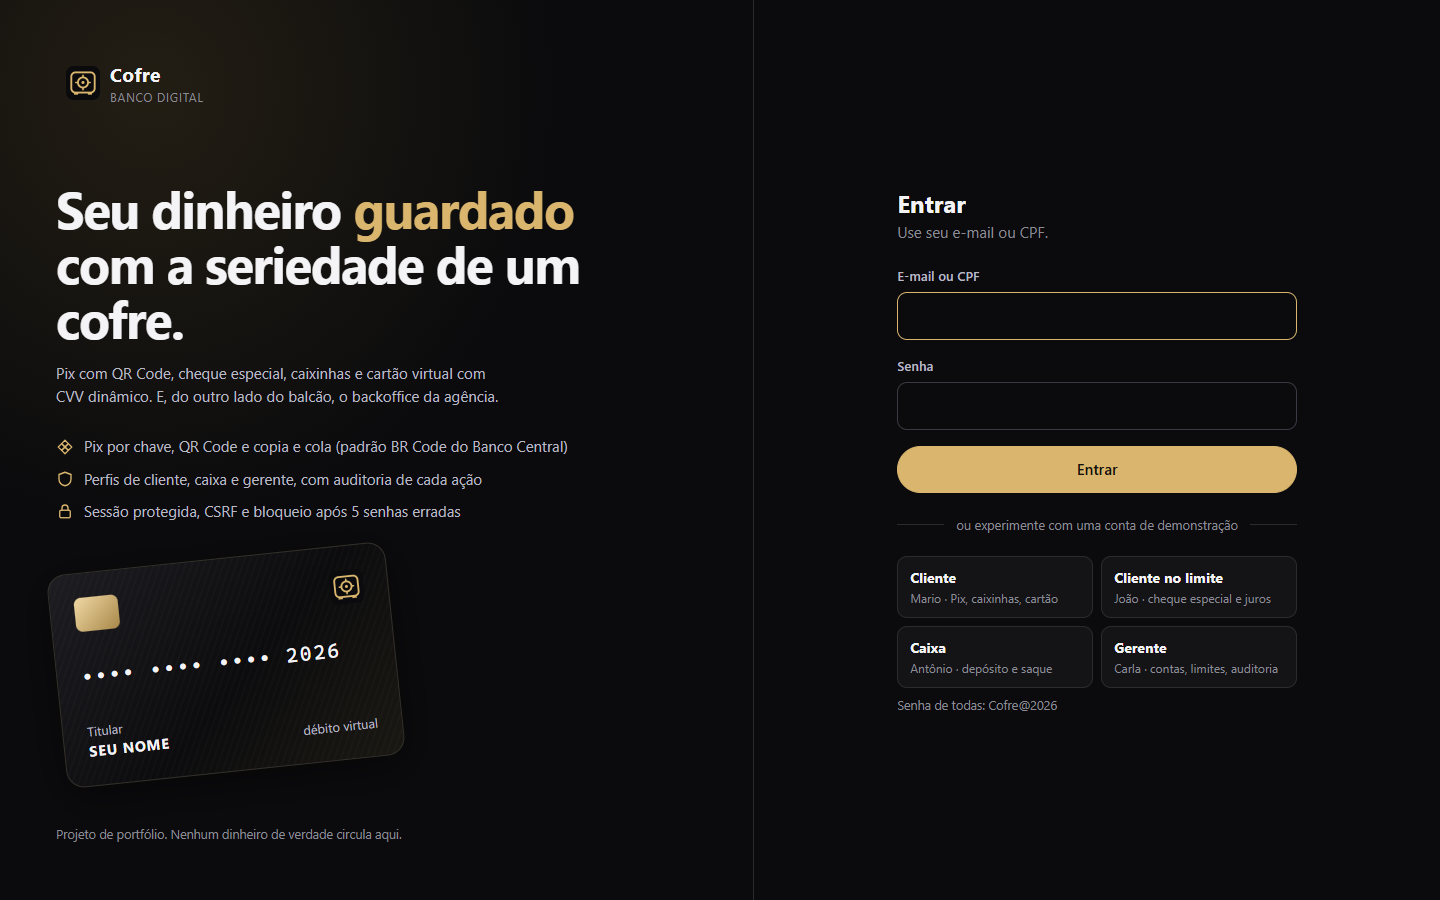
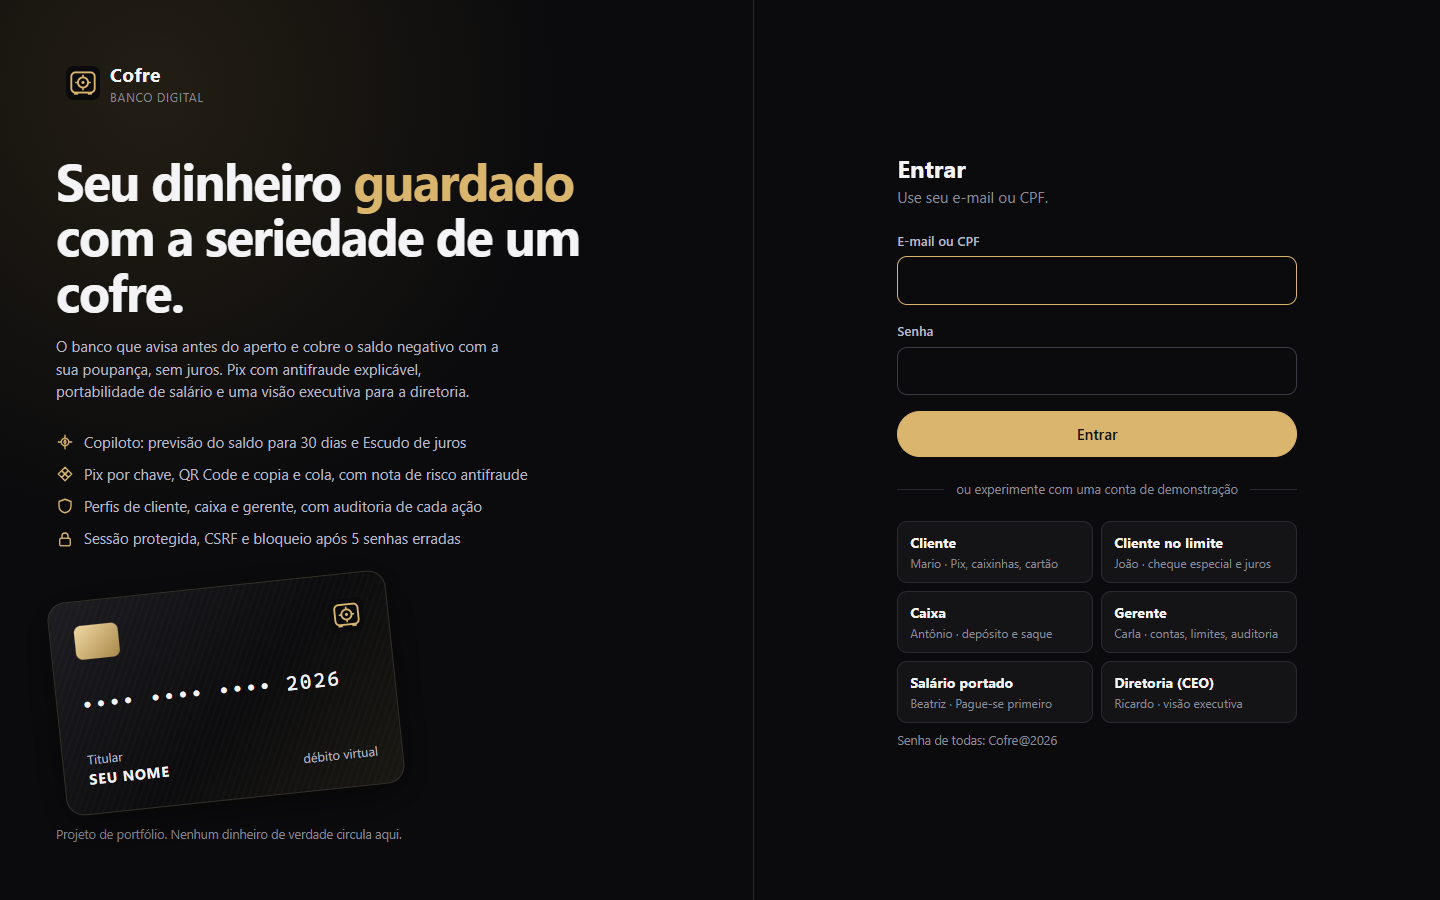
README e Lean Inception: segunda rodada (Copiloto, Escudo, antifraude, salário, visão executiva) e novos prints

diff --git a/src/main/java/dev/barboza/cofre/diretoria/DiretoriaService.java b/src/main/java/dev/barboza/cofre/diretoria/DiretoriaService.java
@@ -172,8 +172,7 @@ public class DiretoriaService {
     /** Frases curtas que um diretor leria primeiro: o que está bom, o que pede atenção. */
     private static List<Leitura> leituras(Custodia c, Resultado r, Credito cr, Antifraude a, Escudo e, Salario s, Concentracao k) {
         List<Leitura> l = new ArrayList<>();
-        l.add(new Leitura("neutro", "Custódia de " + Dinheiro.formatar(c.total()) + ", com " + percentual(c.poupanca(), c.total())
-                + "% em poupança."));
+        l.add(new Leitura("neutro", "Custódia de " + Dinheiro.formatar(c.total()) + ", com " + pct(percentual(c.poupanca(), c.total())) + "% em poupança."));
         l.add(new Leitura(r.margem().signum() >= 0 ? "bom" : "atencao", "Nos últimos 30 dias, os juros do cheque especial renderam "
                 + Dinheiro.formatar(r.receitaDeJuros()) + " e a poupança custou " + Dinheiro.formatar(r.custoDoRendimento()) + "."));
         if (r.margem().signum() < 0) {
@@ -181,7 +180,7 @@ public class DiretoriaService {
                     + "Empréstimo pessoal com CET claro é a próxima alavanca de receita (próxima onda da Lean Inception)."));
         }
         if (cr.utilizacao().compareTo(new BigDecimal("40")) > 0) {
-            l.add(new Leitura("atencao", "Utilização do cheque especial em " + cr.utilizacao() + "% do limite concedido."));
+            l.add(new Leitura("atencao", "Utilização do cheque especial em " + pct(cr.utilizacao()) + "% do limite concedido."));
         }
         if (e.valorCoberto().signum() > 0) {
             l.add(new Leitura("bom", "O Escudo cobriu " + Dinheiro.formatar(e.valorCoberto()) + " de saldo negativo: cerca de "
@@ -196,9 +195,13 @@ public class DiretoriaService {
                     + Dinheiro.formatar(s.folhaMensal()) + "."));
         }
         if (k.top5().compareTo(new BigDecimal("50")) > 0) {
-            l.add(new Leitura("atencao", "Concentração: os 5 maiores clientes têm " + k.top5() + "% da custódia."));
+            l.add(new Leitura("atencao", "Concentração: os 5 maiores clientes têm " + pct(k.top5()) + "% da custódia."));
         }
         return l;
+    }
+
+    private static String pct(BigDecimal valor) {
+        return valor.stripTrailingZeros().toPlainString().replace('.', ',');
     }
 
     private BigDecimal soma(TipoLancamento tipo, Instant de, Instant ate) {

diff --git a/README.md b/README.md
@@ -5,20 +5,20 @@
 <h1 align="center">Cofre</h1>
 
 <p align="center">
-  <b>Banco digital completo em Java 21 + Spring Boot 4</b><br>
-  Pix com QR Code (BR Code), cheque especial com juros diários, caixinhas, cartão virtual com CVV dinâmico<br>
-  e um backoffice com perfis de <b>cliente</b>, <b>caixa</b> e <b>gerente</b>.
+  <b>O banco que avisa antes do aperto e protege o cliente dos juros e dos golpes.</b><br>
+  Banco digital em Java 21 + Spring Boot 4 com orientação a objetos: corrente e poupança, Pix com QR Code (BR Code),<br>
+  Copiloto financeiro, Escudo de juros, antifraude explicável, portabilidade de salário e uma visão executiva para a diretoria.
 </p>
 
 <p align="center">
   <a href="https://github.com/barbozadevti/cofre/actions/workflows/ci.yml"><img src="https://github.com/barbozadevti/cofre/actions/workflows/ci.yml/badge.svg" alt="CI"></a>
   <img src="https://img.shields.io/badge/Java-21-d9b56d" alt="Java 21">
   <img src="https://img.shields.io/badge/Spring_Boot-4.1-d9b56d" alt="Spring Boot 4.1">
-  <img src="https://img.shields.io/badge/testes-114-d9b56d" alt="114 testes">
+  <img src="https://img.shields.io/badge/testes-144-d9b56d" alt="144 testes">
   <img src="https://img.shields.io/badge/PostgreSQL%20%7C%20H2-Flyway-d9b56d" alt="PostgreSQL e H2 com Flyway">
 </p>
 
-![Tela inicial do cliente](docs/telas/02-inicio.png)
+![Copiloto financeiro e Escudo de juros na tela inicial do cliente](docs/telas/02-inicio.png)
 
 ## Experimente em 1 minuto
 
@@ -34,8 +34,44 @@ Abra **http://localhost:5230** e use os botões de demonstração da tela de log
 | Cliente no limite | `joao@cofre.dev` | Cheque especial em uso e juros cobrados por dia |
 | Caixa | `caixa@cofre.dev` | Depósito e saque em espécie no balcão |
 | Gerente | `gerente@cofre.dev` | Indicadores, abertura de conta, limites, bloqueios e auditoria |
+| Salário portado | `beatriz@cofre.dev` | Portabilidade de salário concluída e Pague-se primeiro |
+| **Diretoria (CEO)** | `diretoria@cofre.dev` | Visão executiva: custódia, margem, crédito, fraude, Escudo e concentração |
 
 Sem Docker: `mvn spring-boot:run` (JDK 21 + Maven; o banco H2 é criado em `~/.cofre`). No Windows, o atalho `Abrir Cofre.cmd` faz tudo e abre o navegador. A documentação interativa da API fica em **/swagger-ui.html**.
+
+## O diferencial: um banco do lado do cliente
+
+Bancos costumam ganhar dinheiro com o descuido do cliente: o cheque especial de 8% ao mês cobrado de quem tem dinheiro
+parado na poupança, o golpe que só é percebido depois. O Cofre faz o contrário, e mostra para a diretoria quanto isso custa e quanto rende.
+
+| | O que faz | Como funciona |
+|---|---|---|
+| **Copiloto** | Prevê o saldo dos próximos 30 dias e avisa *antes* de a conta ficar negativa | Reconhece o que se repete todo mês (salário, aluguel, escola) nos últimos 3 meses e projeta. É uma função pura, testada com números calculados à mão |
+| **Escudo de juros** | Se a corrente ficaria negativa, a poupança do cliente cobre na hora, sem juros | Roda na mesma transação do Pix, saque ou transferência, e de novo na rotina diária antes dos juros. Mostra a economia: 8% de juros evitados − 0,5% que a poupança deixou de render |
+| **Antifraude explicável** | Pix com cara de golpe não sai sem confirmação | Nota de 0 a 100 com os motivos: destinatário novo, valor 3× acima da média, madrugada, conta de destino recém-aberta, rajada de envios, Pix que esvazia a conta. Responde HTTP 428; a retenção fica na auditoria |
+| **Traga seu salário** | Portabilidade de salário com linha do tempo | Pedido simulado, andamento calculado pelo relógio (sem rotina para "mudar status") e salário creditado no dia do pagamento, de forma idempotente |
+| **Pague-se primeiro** | Uma porcentagem de cada salário vai para a poupança assim que cai | Vale para o salário portado e para Pix com "salário" na mensagem |
+| **Visão executiva** | O banco inteiro em uma tela, para a diretoria | Perfil próprio (só leitura): custódia, margem de juros, carteira de crédito, Pix, golpes evitados, custo do Escudo, salários trazidos, concentração e uma leitura em texto |
+
+Uma nota honesta: bancos nos Estados Unidos oferecem transferência automática da poupança para cobrir saldo negativo,
+geralmente com tarifa. O diferencial do Cofre é a combinação: **prever antes, proteger de graça e mostrar ao cliente quanto ele economizou**.
+
+<table>
+  <tr>
+    <td><img src="docs/telas/18-copiloto.png" alt="Copiloto: previsão de saldo e Escudo de juros"></td>
+    <td><img src="docs/telas/19-antifraude.png" alt="Antifraude: nota de risco 80 com os motivos"></td>
+  </tr>
+  <tr>
+    <td><img src="docs/telas/20-salario.png" alt="Traga seu salário: portabilidade concluída e Pague-se primeiro"></td>
+    <td><img src="docs/telas/21-salario-em-analise.png" alt="Portabilidade em análise com linha do tempo"></td>
+  </tr>
+  <tr>
+    <td><img src="docs/telas/22-diretoria.png" alt="Visão executiva da diretoria"></td>
+    <td><img src="docs/telas/23-diretoria-riscos.png" alt="Visão executiva: crédito, antifraude, Escudo e concentração"></td>
+  </tr>
+</table>
+
+<p align="center"><img src="docs/telas/24-celular-copiloto.png" alt="Copiloto no celular" width="260"></p>
 
 ## O que tem dentro
 
@@ -179,7 +215,10 @@ flowchart LR
 src/main/java/dev/barboza/cofre/
 ├── dominio/     Conta (abstrata), ContaCorrente, ContaPoupanca, Lancamento, Cliente, Dinheiro, Cpf, NumeroConta
 ├── servico/     ContaService, GerenciaService, PainelService, JurosChequeEspecial, RendimentoPoupanca, Acesso
-├── pix/         PixService, ChavePix, BrCode (EMV + CRC16), QrCodeSvg
+├── copiloto/    PrevisaoDeSaldo (função pura) e CopilotoService (Escudo de juros)
+├── salario/     Portabilidade de salário, CNPJ, Pague-se primeiro
+├── diretoria/   Visão executiva
+├── pix/         PixService, RiscoPix (antifraude), ChavePix, BrCode (EMV + CRC16), QrCodeSvg
 ├── caixinha/    Caixinha e serviço
 ├── cartao/      Cartão virtual, Luhn e CVV dinâmico
 ├── seguranca/   Usuário, perfis, login com bloqueio, Spring Security
@@ -198,7 +237,7 @@ src/main/resources/
 mvn verify
 ```
 
-**114 testes**, rodando com o idioma da máquina em português para pegar qualquer formatação que dependa dele. No CI, a mesma bateria roda também contra o **PostgreSQL**, e um terceiro job sobe o **Docker Compose** e faz login de verdade.
+**144 testes**, rodando com o idioma da máquina em português para pegar qualquer formatação que dependa dele. No CI, a mesma bateria roda também contra o **PostgreSQL**, e um terceiro job sobe o **Docker Compose** e faz login de verdade.
 
 | Área | Exemplos do que é verificado |
 |---|---|
@@ -210,13 +249,17 @@ mvn verify
 | API | Login real com sessão, idempotência do Pix, `problem+json`, CSV byte a byte |
 | Concorrência | 20 saques simultâneos na mesma conta |
 | Terminal | Roteiros de caixa e gerente, abertura com as perguntas do desafio original |
-| Demonstração | Seis meses de histórico, duas poupanças rendendo todo mês e um cliente no cheque especial com juros |
+| Copiloto e Escudo | Recorrências reconhecidas só quando se repetem no mesmo período do mês, dia 31 em mês de 30 dias, cobertura na hora, cobertura parcial, nunca desfaz o "guardar", rotina diária |
+| Antifraude | Cada fator da nota com o peso certo, Pix retido não debita e fica auditado, confirmado sai |
+| Salário | CNPJ, andamento pelo tempo, cancelamento, crédito no dia certo uma vez por mês, Pague-se primeiro |
+| Visão executiva | Os números fecham (custódia, margem) e só a diretoria vê |
+| Demonstração | Seis meses de histórico, poupanças rendendo, Escudo em ação, salário portado e um cliente no cheque especial com juros |
 
 Os valores esperados de CPF, dígito verificador e BR Code vêm de fontes independentes (documentação do Banco Central e uma implementação separada), não do próprio código testado.
 
 ## API
 
-40 rotas, documentadas em `/swagger-ui.html`. Os erros seguem a RFC 9457 (`application/problem+json`), em português:
+51 rotas, documentadas em `/swagger-ui.html`. Os erros seguem a RFC 9457 (`application/problem+json`), em português:
 
 | Situação | Status |
 |---|---|
@@ -226,9 +269,10 @@ Os valores esperados de CPF, dígito verificador e BR Code vêm de fontes indepe
 | Duas operações simultâneas na mesma conta | 409 |
 | Acesso bloqueado por tentativas | 423 |
 | Regra de negócio (saldo, limite do Pix, conta bloqueada...) | 422 |
+| Pix com nota de risco alta: precisa de confirmação (`X-Confirmacao-Risco: confirmo`) | 428 |
 
 ![Swagger](docs/telas/15-swagger.png)
 
 ## Produto
 
-As decisões de escopo e a ordem das entregas estão na [Lean Inception](docs/lean-inception.md). Das nove ondas planejadas, oito já foram entregues.
+As decisões de escopo e a ordem das entregas estão na [Lean Inception](docs/lean-inception.md). A segunda rodada (ondas 9 a 12: Copiloto, antifraude, visão executiva e salário) partiu da pergunta "o que um CEO de banco olharia?". A próxima onda é empréstimo pessoal com CET e tabela Price, a alavanca de receita que a própria visão executiva aponta.

diff --git a/docs/lean-inception.md b/docs/lean-inception.md
@@ -105,7 +105,8 @@
 | 6 | Pix completo (chaves, BR Code, limites, comprovantes), caixinhas, cartão virtual | Entregue |
 | 7 | PostgreSQL com Flyway, Docker Compose, OpenAPI, novo visual | Entregue |
 | 8 | Conta poupança (herança de contas, rendimento no aniversário, abertura pelo app) | Entregue |
-| 9 | Notificações por e-mail, autenticação em dois fatores, limites de Pix ajustáveis pelo cliente | Próxima |
+| 9 a 12 | Segunda rodada: Copiloto e Escudo de juros, antifraude explicável, Traga seu salário, visão executiva (detalhes abaixo) | Entregue |
+| 13 | Empréstimo pessoal com CET e tabela Price | Próxima |
 
 ## 8. MVP
 
@@ -115,3 +116,97 @@
 - nenhuma operação resulta em saldo além do limite ou em diferença de centavos (garantido por testes, inclusive concorrentes);
 - um cliente não consegue ver nem movimentar a conta de outro (testado na API);
 - um BR Code gerado pelo Cofre é idêntico ao exemplo da documentação oficial do Pix.
+
+
+---
+
+# Segunda rodada (setembro de 2026): o que um CEO de banco olharia
+
+A primeira rodada construiu o núcleo bancário. A segunda parte de outra pergunta: **o que faria a diretoria de um banco
+prestar atenção neste produto?** As respostas viraram quatro ondas, escolhidas por valor de negócio e não só por técnica.
+
+## 9. Visão da segunda rodada
+
+**Para** a diretoria de um banco digital que precisa crescer sem aumentar perda por fraude nem perder clientes para a concorrência,
+**cujo** problema é que o cliente usa o banco como conta secundária, paga juros de cheque especial tendo dinheiro guardado e cai em golpes de Pix,
+**o Cofre** passa a ser o banco que **avisa antes do aperto e protege o cliente do próprio produto mais caro**,
+**que** prevê o saldo, cobre o negativo com a poupança, explica por que um Pix parece golpe e traz o salário para dentro,
+**diferente de** bancos que lucram com o descuido do cliente,
+**o nosso produto** troca uma receita pequena de juros por retenção, confiança e salário na conta (que é o que vira conta principal).
+
+## 10. Personas novas
+
+### Ricardo, CEO (52 anos)
+- **Comportamento:** olha os números na segunda-feira de manhã, em 5 minutos, antes da reunião de diretoria.
+- **Necessidades:** custódia, resultado de juros, risco de crédito, perdas por fraude e concentração da carteira, com uma leitura em texto do que mudou.
+
+### Beatriz, cliente que trouxe o salário (29 anos)
+- **Comportamento:** recebia no banco da empresa e só usava o Cofre para Pix.
+- **Necessidades:** mudar o salário sem falar com o RH e guardar uma parte antes de gastar.
+
+### Ana, cliente alvo de golpe (38 anos)
+- **Comportamento:** faz Pix pequenos e frequentes; recebe a mensagem de um "parente com número novo".
+- **Necessidades:** um aviso claro, no momento certo, que não a trate como suspeita.
+
+## 11. Jornadas novas
+
+**Mario não paga juros tendo dinheiro guardado (Copiloto + Escudo)**
+1. O Copiloto aprende a rotina de Mario: salário no dia 5, aluguel no dia 6, compras no dia 9.
+2. Uma parcela do seguro chega antes do salário e deixaria a conta negativa.
+3. Com o Escudo ligado, a poupança cobre na hora. No fim do mês, o Copiloto mostra quanto ele deixou de pagar de juros.
+
+**Ana desiste de um golpe (antifraude explicável)**
+1. Ana tenta mandar R$ 990,00 à noite para alguém que nunca pagou; a média dos Pix dela é R$ 223,00.
+2. O Cofre não envia e mostra a nota 80, com os três motivos e uma dica sobre golpes.
+3. Ana desiste. Na visão executiva, a desistência conta como golpe evitado.
+
+**Beatriz traz o salário (portabilidade + Pague-se primeiro)**
+1. Informa o banco de origem, a empresa, o CNPJ e o salário. Acompanha a linha do tempo do pedido.
+2. Em 3 dias, a portabilidade é concluída; no dia 5, o salário cai no Cofre.
+3. Assim que cai, 10% vão para a poupança, antes de qualquer gasto.
+
+**Ricardo prepara a reunião de diretoria (visão executiva)**
+1. Entra com o perfil Diretoria e lê a "Leitura do período".
+2. Vê que a margem de juros está negativa porque a carteira de crédito é pequena: a próxima onda é empréstimo pessoal.
+3. Vê o custo do Escudo (juros renunciados) ao lado dos golpes evitados e dos salários trazidos.
+
+## 12. Funcionalidades da segunda rodada
+
+| Funcionalidade | Esforço | Valor de negócio | Valor de UX | Por que o CEO se importa |
+|---|---|---|---|---|
+| Previsão de saldo para 30 dias (Copiloto) | EE | $$ | ♥♥♥ | Engajamento: o cliente abre o app para planejar, não só para pagar |
+| Escudo de juros (poupança cobre o negativo) | EE | $$$ | ♥♥♥ | Retenção e confiança; diferencial de marca |
+| Antifraude explicável no Pix | EE | $$$ | ♥♥ | Perda por fraude é custo direto e risco de imagem |
+| Portabilidade de salário | EE | $$$ | ♥♥ | Salário na conta transforma conta secundária em principal |
+| Pague-se primeiro | E | $$ | ♥♥♥ | Aumenta a captação em poupança |
+| Visão executiva (perfil Diretoria) | EE | $$$ | ♥ | Decisão rápida com os números certos |
+| Empréstimo pessoal com CET e tabela Price | EEE | $$$ | ♥♥ | Principal alavanca de receita (a margem atual é negativa) |
+| Investimentos (CDB com liquidez diária) | EEE | $$ | ♥♥ | Captação de prazo mais longo |
+| Pix agendado e Pix Automático | EE | $$ | ♥♥ | Contas recorrentes no banco aumentam o uso |
+| Autenticação em dois fatores e notificações | EEE | $$$ | ♥ | Segurança exigida em produção |
+
+## 13. Sequenciamento da segunda rodada
+
+| Onda | Funcionalidades | Situação |
+|---|---|---|
+| 9 | Copiloto (previsão de 30 dias) e Escudo de juros | Entregue |
+| 10 | Antifraude explicável no Pix (nota de 0 a 100, retenção auditada, confirmação reforçada) | Entregue |
+| 11 | Visão executiva com perfil Diretoria | Entregue |
+| 12 | Traga seu salário: portabilidade e Pague-se primeiro | Entregue |
+| 13 | Empréstimo pessoal com CET e tabela Price | Próxima |
+| 14 | Investimentos, Pix agendado e Pix Automático | Futuro |
+| 15 | Dois fatores, notificações e limites de Pix ajustáveis | Futuro |
+
+## 14. MVP da segunda rodada
+
+**Hipótese:** um banco que avisa antes do aperto, protege o cliente dos juros e de golpes e facilita trazer o salário
+retém mais clientes e vira conta principal, mesmo abrindo mão de parte da receita de cheque especial.
+
+**Ondas 9 a 12.** Validado quando:
+- o Escudo nunca cobre com dinheiro da conta que acabou de receber (guardar na poupança usando o limite não é desfeito) e cobre só o que falta;
+- o Copiloto acerta as datas e os saldos de uma rotina calculada à mão (teste com números fixos);
+- um Pix com nota alta nunca sai sem confirmação, e a retenção fica auditada mesmo sem envio;
+- a visão executiva fecha: custódia = corrente + poupança + caixinhas, margem = juros − rendimento.
+
+**Métricas para acompanhar (o que a visão executiva já mostra):** golpes evitados, juros renunciados pelo Escudo,
+salários trazidos (folha mensal), custódia em poupança e concentração dos 5 maiores clientes.
